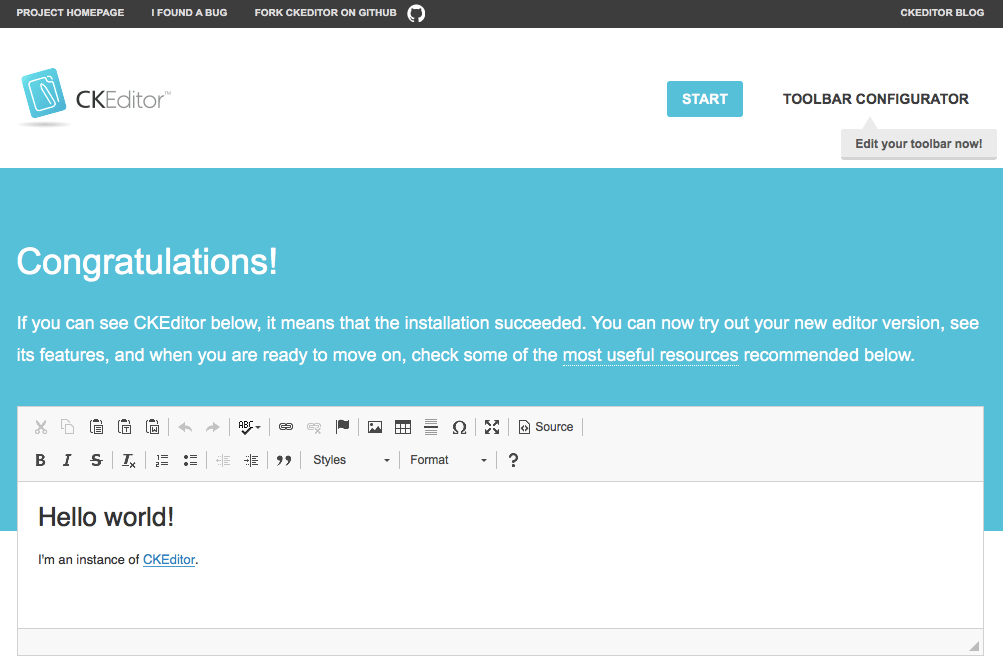
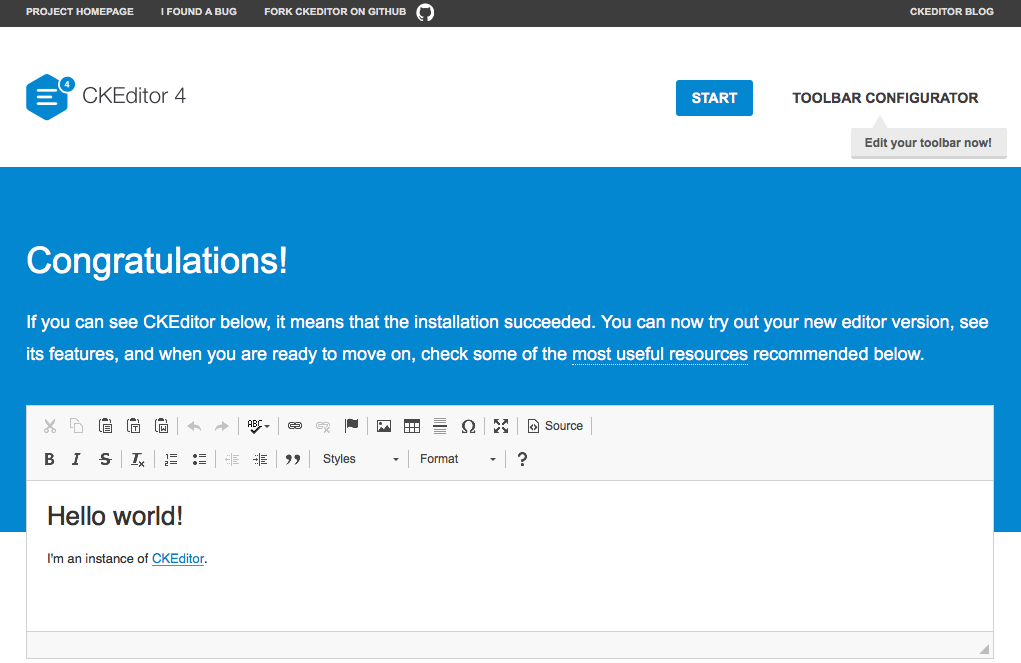
Refreshed sample, toolbar configurator screenshots. Updated Pasting guide.

diff --git a/docs/guide/dev/features/toolbar/README.md b/docs/guide/dev/features/toolbar/README.md
@@ -16,7 +16,8 @@ While CKEditor is a full-featured WYSIWYG editor, not all of its options
 may be needed in all cases. Because of this, toolbar customization is
 one of the most common requirements.
 
-<info-box hint=""> The <strong>most recommended approach to adjusting the editor</strong> to your needs is to start from creating a <a href="https://ckeditor.com/cke4/builder">custom build</a>, removing unwanted features before they even make it to your toolbar. It is a bad practice to download the Full package and then {@linkapi CKEDITOR.config#removePlugins remove plugins} or {@linkapi CKEDITOR.config#removeButtons buttons} in your configuration. You will only be loading unnecessary stuff without any good reason.
+<info-box hint="">
+    The <strong>most recommended approach to adjusting the editor</strong> to your needs is to start from creating a <a href="https://ckeditor.com/cke4/builder">custom build</a>, removing unwanted features before they even make it to your toolbar. It is a bad practice to download the Full package and then {@linkapi CKEDITOR.config#removePlugins remove plugins} or {@linkapi CKEDITOR.config#removeButtons buttons} in your configuration. You will only be loading unnecessary stuff without any good reason.
 </info-box>
 
 There are several approaches to CKEditor toolbar configuration to choose from:
@@ -27,7 +28,8 @@ There are several approaches to CKEditor toolbar configuration to choose from:
 
 ## Toolbar Configurator
 
-<info-box info=""> Toolbar configurator was introduced in <strong>CKEditor 4.5</strong> and is available in each official CKEditor installation package.
+<info-box info="">
+    Toolbar configurator was introduced in <strong>CKEditor 4.5</strong> and is available in each official CKEditor installation package.
 </info-box>
 
 The new toolbar utility, which you can find in your CKEditor distribution package, makes configuring an accessible toolbar a breeze.
@@ -39,7 +41,7 @@ To open the toolbar configurator, go to the `/samples/` folder of your CKEditor 
 
 Click the **Toolbar Configurator** button in the top right-hand corner of the sample page to proceed to editing your toolbar.
 
-{@img assets/img/ckeditor-4.5-sample.png New CKEditor 4.5 sample with Toolbar Configurator button}
+{@img assets/img/ckeditor-4.9-sample.png New CKEditor 4.9 sample with Toolbar Configurator button}
 
 There are two types of toolbar configurator available: the **basic**, more visual one and the **advanced** one. The editor shown in the toolbar configurator contains all the features and buttons available in a particular CKEditor build.
 

diff --git a/docs/guide/dev/integration/file_browse_upload/file_upload/README.md b/docs/guide/dev/integration/file_browse_upload/file_upload/README.md
@@ -12,7 +12,8 @@ For licensing, see LICENSE.md.
 
 # Uploading Dropped or Pasted Files
 
-<info-box info=""> Uploading pasted and dragged images was introduced in <strong>CKEditor 4.5</strong>. It is provided through an optional <a href="https://ckeditor.com/cke4/addon/uploadimage">Upload Image</a> plugin that is not included in the CKEditor presets available from the <a href="https://ckeditor.com/ckeditor-4/download/">Download</a> site and {@link guide/dev/plugins/README needs to be added to your custom build} with <a href="https://ckeditor.com/cke4/builder">CKBuilder</a>.
+<info-box info="">
+	Uploading pasted and dragged images was introduced in <strong>CKEditor 4.5</strong>. It is provided through the <a href="https://ckeditor.com/cke4/addon/uploadimage">Upload Image</a> plugin that is included in the Standard and Full presets available from the <a href="https://ckeditor.com/ckeditor-4/download/">Download</a> site. You can also {@link guide/dev/plugins/README add it to your custom build} with <a href="https://ckeditor.com/cke4/builder">CKBuilder</a>.
 </info-box>
 
 Starting from CKEditor 4.5 it is possible to enable uploading pasted and dropped images. This article is about the editor-server configuration for pasted and dropped files since it uses a different API than the {@link guide/dev/integration/file_browse_upload/file_browser_api/README File Browser} plugin. To get an overview about this feature, refer to the {@link guide/dev/features/drop_paste/README Dropping and Pasting into Editor Content} article.

diff --git a/docs/guide/dev/features/pastefromword/README.md b/docs/guide/dev/features/pastefromword/README.md
@@ -87,9 +87,7 @@ It will look like this after pasting into CKEditor:
 {@img assets/img/pastefromword_04.png}
 
 In the example above you can see that after pasting into CKEditor, the first list has different list item markers than in the Word document.
-As far as pasting lists with different markers is supported (check the second and third list in the example above) this is a specific case. Such list
-style is not natively supported by the browser. However, it can be adjusted by using extra
-CSS rules (see a [related StackOverflow thread](http://stackoverflow.com/questions/4098195/can-ordered-list-produce-result-that-looks-like-1-1-1-2-1-3-instead-of-just-1) how to style it properly).
+As far as pasting lists with different markers is supported (check the second and third list in the example above) this is a specific case. Such list style is not natively supported by the browser. However, it can be adjusted by using extra CSS rules (see a [related StackOverflow thread](http://stackoverflow.com/questions/4098195/can-ordered-list-produce-result-that-looks-like-1-1-1-2-1-3-instead-of-just-1) how to style it properly).
 
 ## Filters
 
